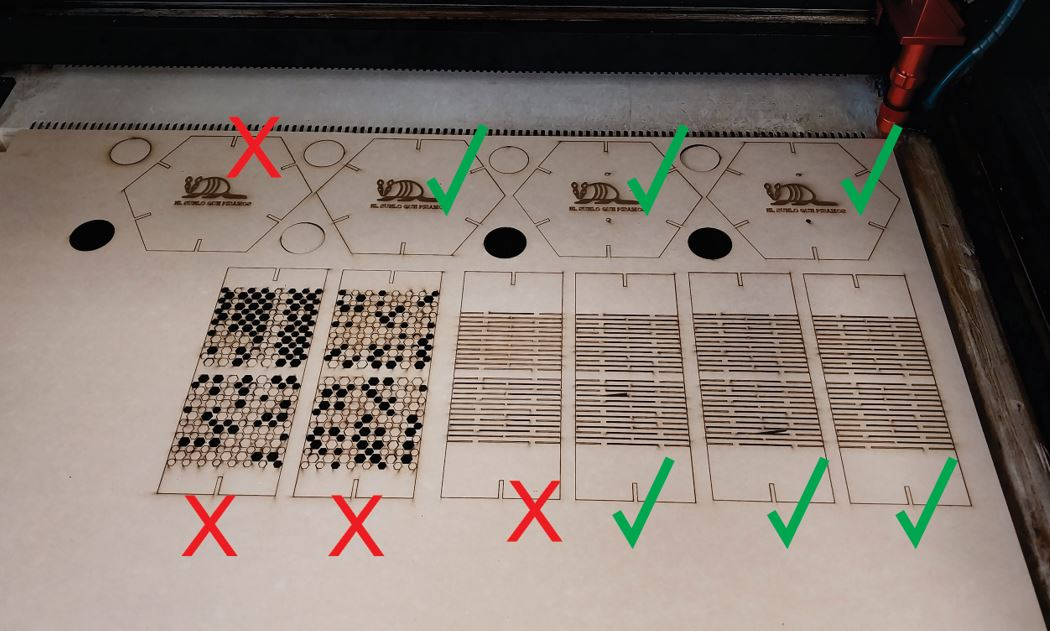
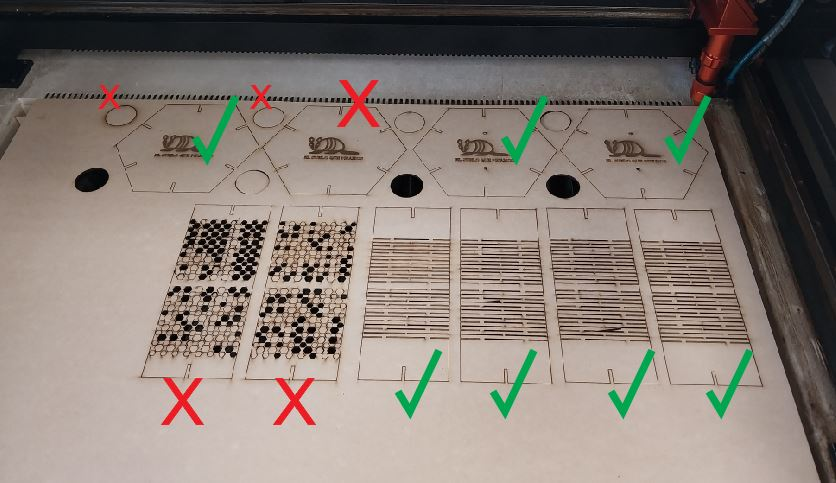
recargarF

Changed region(s): [[0.0, 0.0, 1.0, 1.0], [0.4354, 0.0932, 0.7153, 0.1242], [0.3421, 0.0932, 0.4043, 0.1242]]

diff --git a/docs/tecnicos/mt03.md b/docs/tecnicos/mt03.md
@@ -105,6 +105,10 @@ Al finalizar el trabajo, revisamos las piezas y algunas no habian sido cortadas 
 
 ![](../images/MT03/F.jpg)
 
+Para corregir el error, en el archivo RDworks, modificamos las capas, pasando todo en amarillo (color que no se va a imprimir) y luego los bordes que no se habian cortado completamente en color rojo. Indicando que vuelva a cortar las piezas en color rojo.
 
+
+
+Aprovechamos el área libre de la plancha y volvimos a diseñar las piezas faltantes en RDworks, cambiamos las capas de las piezas iniciales a un color amarillo y le dimos la órden de no imprimir esa capa.
 
 
